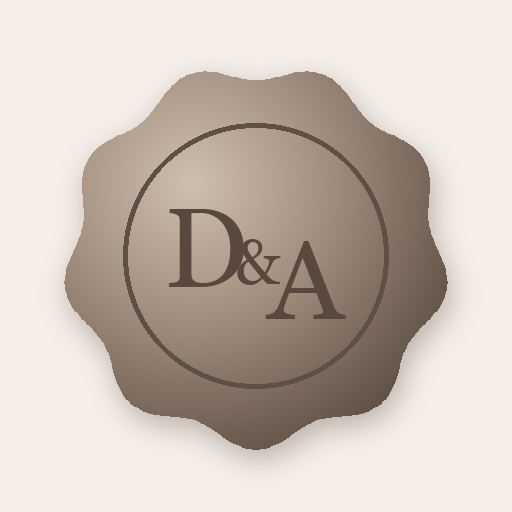
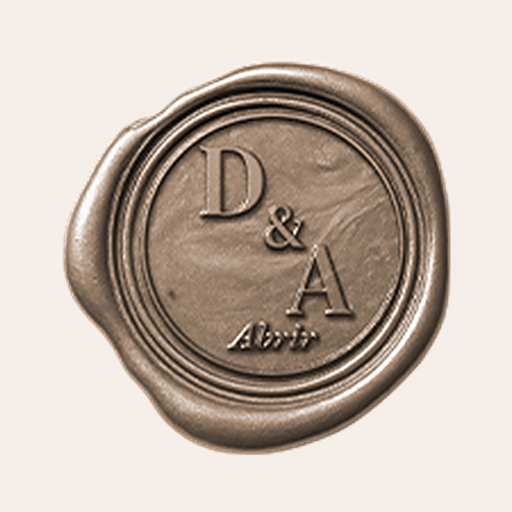
Sello exacto de la invitación como botón para abrir
Imagen original del sello (ampliada) en lugar del SVG, y el ícono con el mismo
sello sobre crema.

diff --git a/src/components/WelcomeScreen.tsx b/src/components/WelcomeScreen.tsx
@@ -1,7 +1,6 @@
 import { useState, useEffect } from 'react';
 import { motion, AnimatePresence } from 'framer-motion';
 import { EVENT } from '@/lib/event';
-import Sello from './Sello';
 
 interface WelcomeScreenProps {
   onJoin: (name: string) => void;
@@ -102,14 +101,6 @@ export default function WelcomeScreen({ onJoin }: WelcomeScreenProps) {
               <div className="h-[1px] w-8 bg-[var(--silver)]/45" />
             </motion.div>
 
-            <motion.div
-              initial={{ opacity: 0, scale: 0.6, rotate: -12 }}
-              animate={{ opacity: 1, scale: 1, rotate: 0 }}
-              transition={{ delay: 0.35, duration: 0.9, ease: [0.34, 1.4, 0.5, 1] }}
-              className="flex justify-center mb-4"
-            >
-              <Sello size={92} texto={null} />
-            </motion.div>
 
             <h1 className="leading-[1.05]">
               <span
@@ -224,7 +215,9 @@ function SelloBoton({ abriendo, alAbrir }: { abriendo: boolean; alAbrir: () => v
         : { opacity: { duration: 0.8 }, rotate: { duration: 0.8 }, scale: { duration: 2.6, repeat: Infinity, ease: 'easeInOut', delay: 0.8 } }}
       whileTap={{ scale: 0.94 }}
     >
-      <Sello size={210} />
+      {/* El sello exacto de la invitación (public/sello.png, sacado de su sitio). */}
+      <img src="/sello.png" alt="" width={180} height={182} draggable={false}
+        style={{ display: 'block', width: 180, height: 'auto', filter: 'drop-shadow(0 10px 14px rgba(60,44,34,0.28))' }} />
     </motion.button>
   );
 }

diff --git a/CLAUDE.md b/CLAUDE.md
@@ -61,14 +61,13 @@ Tipografías (las de la invitación):
 - **Caveat** — la firma manuscrita en las Polaroids
 
 Elementos:
-- **Sello de lacre** (`src/components/Sello.tsx`, SVG): copia el de la
-  invitación — cera topo metálica con vetas en remolino, borde derramado, dos
-  aros y "D&A" en relieve (filtros de luz especular de SVG, no sombras
-  dibujadas) y "Abrir" en Great Vibes. **Es el botón de entrada**: la galería
-  arranca con el sello sobre el papel y al tocarlo se hunde, se desvanece y
-  aparece la bienvenida (`SelloBoton` en `WelcomeScreen.tsx`). Encima de los
-  nombres va uno chico sin texto. El ícono de la app (`public/icon.png`,
-  `python3 scripts/make-icon.py`) es el mismo sello en topo.
+- **Sello de lacre = el botón de entrada**: es la imagen EXACTA de la
+  invitación (`public/sello.png`, sacada de su sitio: `Sello_medidaFinal.png`,
+  189 px, ampliada ×3 con Lanczos + un toque de nitidez). La galería arranca con
+  el sello sobre el papel; al tocarlo se hunde, se desvanece y aparece la
+  bienvenida (`SelloBoton` en `WelcomeScreen.tsx`). Zahir rechazó la versión
+  dibujada en SVG (9-oct): usar la imagen. El ícono (`public/icon.png`) es ese
+  mismo sello sobre crema (`scripts/make-icon.py` ya no se usa).
 - **Papel**: textura de fibra en SVG sobre el fondo crema (`index.css`).
 - **Polaroid**: marco blanco `6px 6px 54px 6px`, inclinación aleatoria por foto.
 - Frase de la invitación: «Juntos hicimos de un día cualquiera, una fecha para
